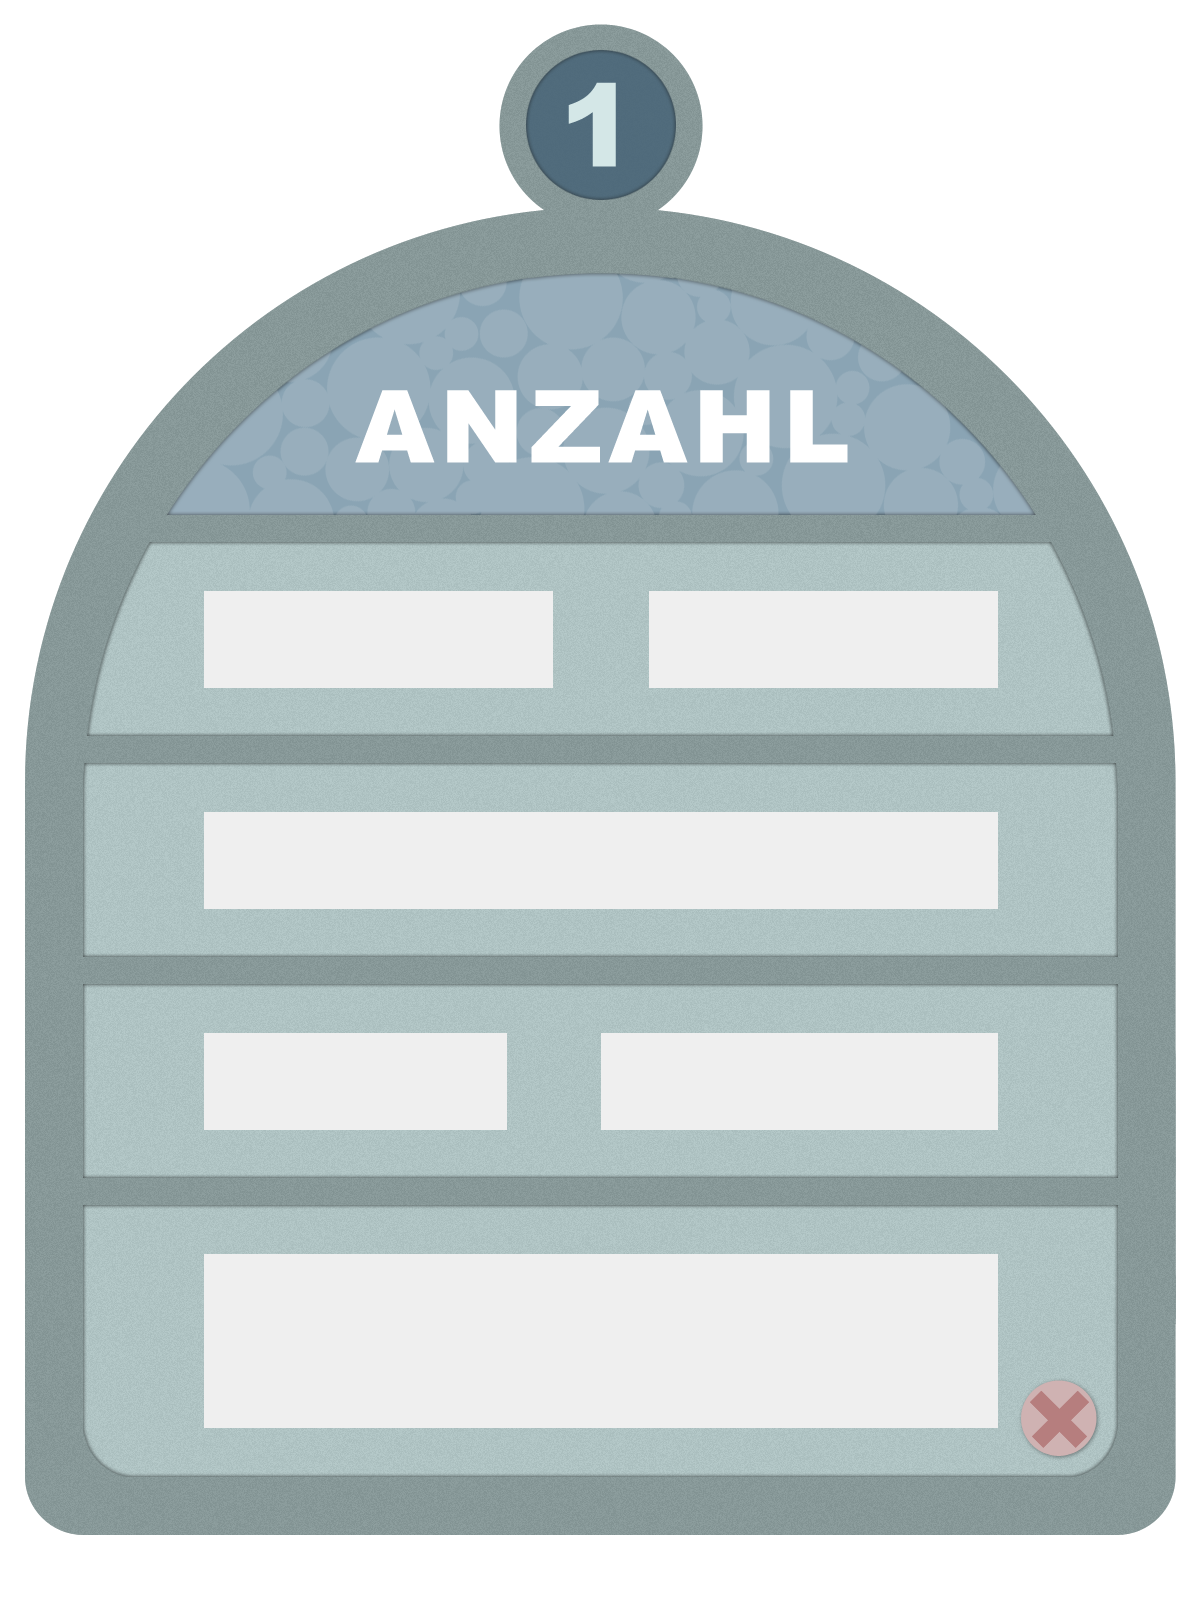
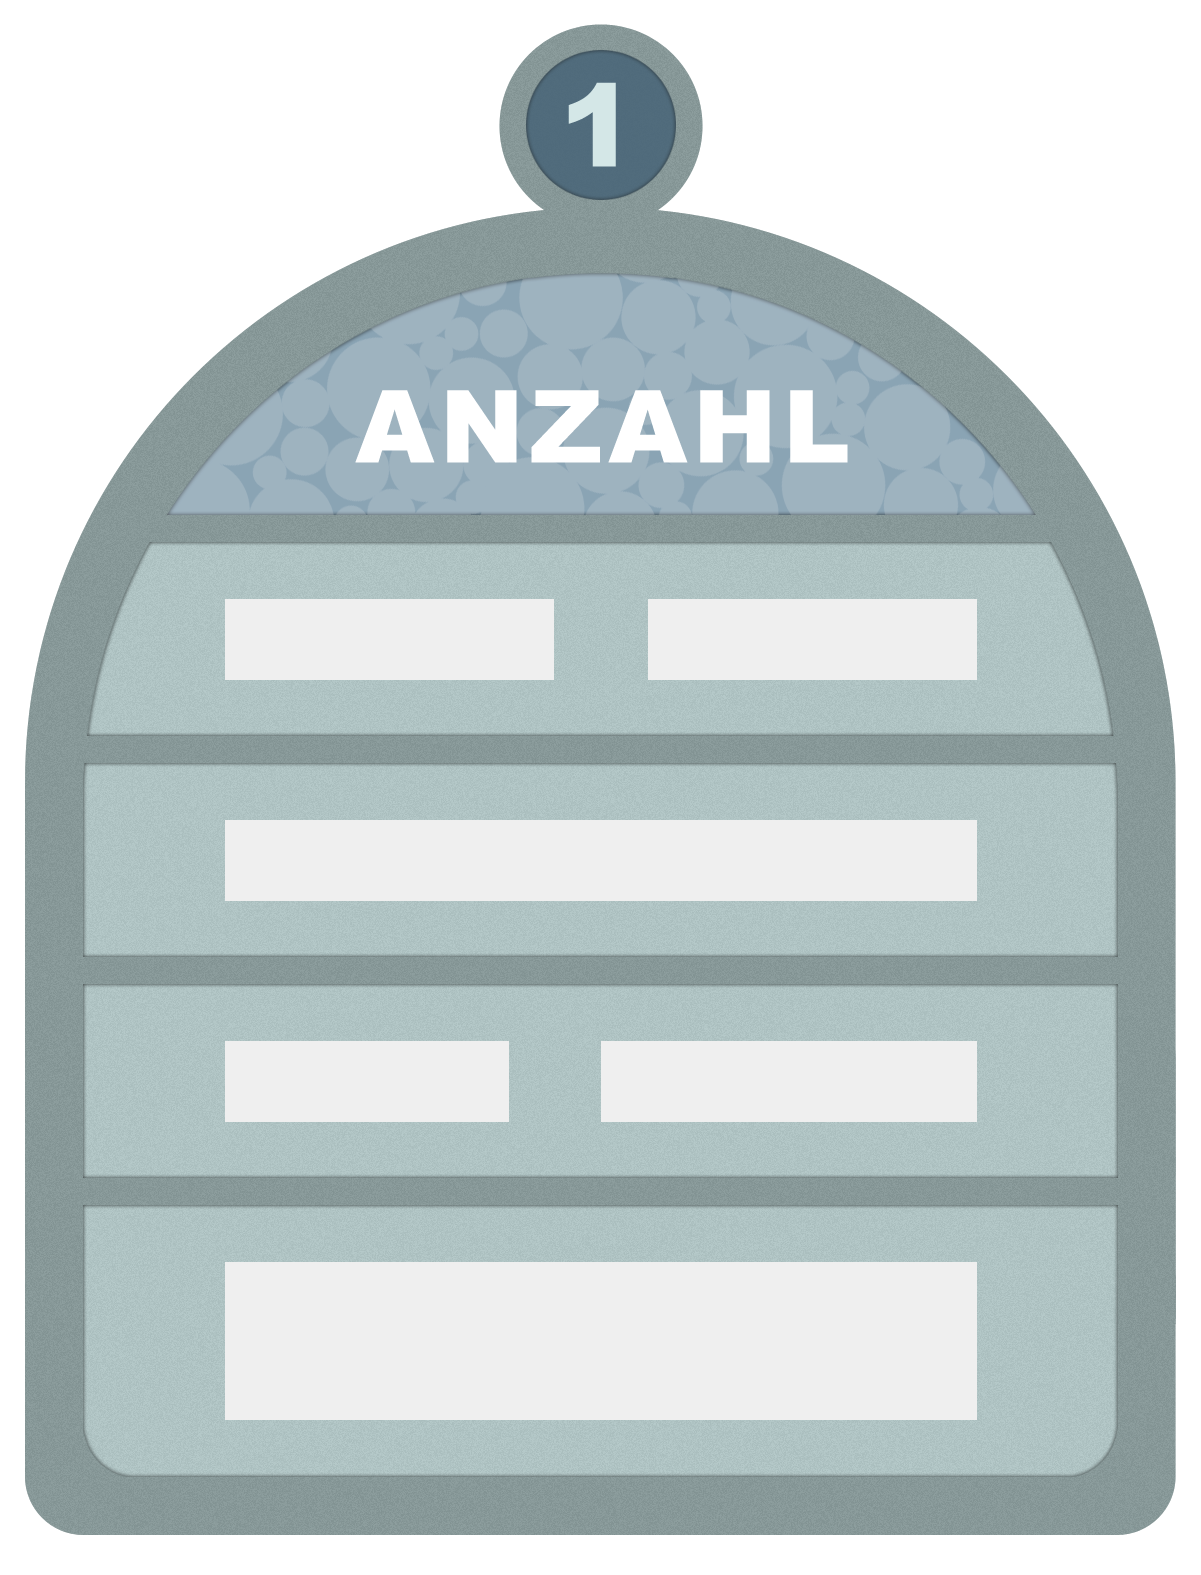
tuning the machine

diff --git a/DeutschMath/MachineVC.m b/DeutschMath/MachineVC.m
@@ -23,6 +23,13 @@
 #define METER      @"m"
 #define KILOMETER  @"km"
 
+#define COLOR_TEXT       [UIColor colorWithRed:65.0/255.0  green:74.0/255.0 blue:74.0/255.0 alpha:1]
+#define COLOR_CORRECT    [UIColor colorWithRed:.3 green:.7 blue:.3 alpha:1]
+#define COLOR_INCORRECT  [UIColor colorWithRed:.7 green:.3 blue:.7 alpha:1]
+#define NUM_MAX_INCORRECT 2
+
+#define IMAGE_MULT @"multiplikation"
+#define IMAGE_DIV  @"division"
 
 typedef enum {
     ct_time,
@@ -46,6 +53,12 @@ typedef enum {
     int answer;
     
     UIButton* coverButton;
+    UIView* antiInteractor;
+    
+    int numIncorrectAnswers;
+    BOOL isCorrectAnswer;
+    
+    BOOL keyboardIsUnused;
 }
 
 + (id)new {
@@ -71,6 +84,13 @@ typedef enum {
     kf.origin = CGPointMake(0, self.view.frame.size.height);
     _keyboardView.frame = kf;
     [self.view addSubview:_keyboardView];
+    
+    _inputValueLabel.textColor = COLOR_TEXT;
+    _inputUnitLabel.textColor = COLOR_TEXT;
+    _outputUnitLabel.textColor = COLOR_TEXT;
+    _wandleLabel.textColor = COLOR_TEXT;
+    _multiplierLabel.textColor = COLOR_TEXT;
+    
 //    _keyboardView.transform = CGAffineTransformMakeTranslation(0, self.view.frame.size.height);
     
 //    CGRect vf = self.view.frame;
@@ -82,7 +102,14 @@ typedef enum {
 
 -(void) reinitialize {
     
+    if ( antiInteractor ) {
+        [antiInteractor removeFromSuperview];
+        antiInteractor = nil;
+    }
+    
     _outputValueLabel.text = @"";
+    numIncorrectAnswers = 0;
+    isCorrectAnswer = NO;
 
     ct = (CalcType)arc4random_uniform( (u_int32_t)ct_numCT );
     convertUP = arc4random_uniform(2)==0;
@@ -99,17 +126,42 @@ typedef enum {
     _multiplierLabel.text = [NSString stringWithFormat:@"%d",multiplier];
     _inputValueLabel.text = [NSString stringWithFormat:@"%d",(convertUP?bottomValue:topValue)];
     _outputValueLabel.text = @"";
-    _outputValueLabel.textColor = [UIColor blackColor];
+    _outputValueLabel.textColor = COLOR_TEXT;
+    
+    _operatorImage.image = [UIImage imageNamed:( convertUP ? IMAGE_DIV : IMAGE_MULT )];
 }
 
 
 - (IBAction)buttonPressed:(id)sender {
     
     if ( sender == _backButton ) {
+        [self.navigationController popViewControllerAnimated:YES];
         return;
     }
     
     if ( sender == _doneButton ) {
+        
+        antiInteractor = [[UIView alloc] initWithFrame:self.view.frame];
+        antiInteractor.backgroundColor = [UIColor clearColor];
+        [self.view addSubview:antiInteractor];
+        
+        _outputValueLabel.text = [NSString stringWithFormat:@"%d",answer];
+        _outputValueLabel.textColor = COLOR_CORRECT;
+
+        double delayInSeconds = 1;
+        dispatch_time_t popTime = dispatch_time(DISPATCH_TIME_NOW, (int64_t)(delayInSeconds * NSEC_PER_SEC));
+        dispatch_after(popTime, dispatch_get_main_queue(), ^(void){
+            
+            [UIView animateWithDuration:.4 delay:0 options:UIViewAnimationOptionCurveEaseInOut animations:^(void){
+                _outputValueLabel.transform = CGAffineTransformMakeScale(1.1, 1.1);
+            } completion:^(BOOL comp){
+                [UIView animateWithDuration:.4 delay:0 options:UIViewAnimationOptionCurveEaseInOut animations:^(void){
+                    _outputValueLabel.transform = CGAffineTransformIdentity;
+                } completion:^(BOOL comp){[self reinitialize];}];
+            }];
+            
+        });
+        
         return;
     }
     
@@ -122,6 +174,7 @@ typedef enum {
     }
     
     if ( sender == _valueButton ) {
+        keyboardIsUnused = YES;
         [self addCoverButton];
         [UIView animateWithDuration:.3 animations:^(void){
             _tranView.transform = CGAffineTransformMakeTranslation(0, -_keyboardView.frame.size.height);
@@ -138,6 +191,7 @@ typedef enum {
         if ( currText && currText.length>0 ) {
             currText = [currText substringToIndex:currText.length-1];
             _outputValueLabel.text = currText;
+            keyboardIsUnused = NO;
         }
         return;
     }
@@ -154,8 +208,9 @@ typedef enum {
     // otherwise we have a number button
     UIButton* butt = (UIButton*)sender;
     int tag = butt.tag;
-    currText = [currText stringByAppendingFormat:@"%d",tag];
+    currText = ( keyboardIsUnused ? [NSString stringWithFormat:@"%d",tag] : [currText stringByAppendingFormat:@"%d",tag] );
     _outputValueLabel.text = currText;
+    keyboardIsUnused = NO;
 }
 
 -(void)addCoverButton {
@@ -200,10 +255,15 @@ typedef enum {
     }
     
     if ( [answerStr isEqualToString:[NSString stringWithFormat:@"%d",answer]] ) {
-        _outputValueLabel.textColor = [UIColor colorWithRed:.3 green:.7 blue:.3 alpha:1];
+        _outputValueLabel.textColor = COLOR_CORRECT;
+        isCorrectAnswer = YES;
     }
     else {
-        _outputValueLabel.textColor = [UIColor colorWithRed:.7 green:.3 blue:.7 alpha:1];
+        _outputValueLabel.textColor = COLOR_INCORRECT;
+        numIncorrectAnswers += 1;
+        if ( numIncorrectAnswers > NUM_MAX_INCORRECT ) {
+            [self buttonPressed:_doneButton];
+        }
     }
 }
 

diff --git a/DeutschMath/MachineVC.h b/DeutschMath/MachineVC.h
@@ -20,6 +20,7 @@
 
 - (IBAction)buttonPressed:(id)sender;
 
+@property (weak, nonatomic) IBOutlet UILabel *wandleLabel;
 @property (weak, nonatomic) IBOutlet UILabel *inputValueLabel;
 @property (weak, nonatomic) IBOutlet UILabel *inputUnitLabel;
 @property (weak, nonatomic) IBOutlet UILabel *outputUnitLabel;
